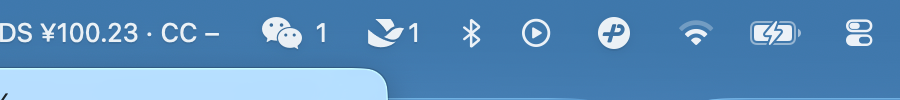
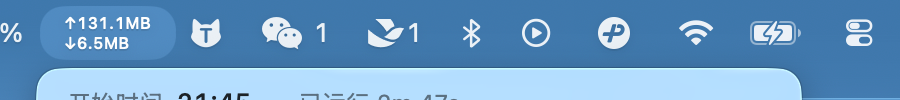
feat: 菜单标题行去除「剩」字，状态条仅展示进度值（移除重置倒计时段）
- 菜单标题：🟣 Codex — 35%（原「— 剩 35%」）
- 状态条：CX 35% · Z 35% · OA /bin/zsh.04（倒计时只保留在下拉菜单明细行）
- reset_remaining 转为测试锚点（allow(dead_code) 惯例）

diff --git a/src-tauri/src/tray.rs b/src-tauri/src/tray.rs
@@ -151,7 +151,9 @@ fn tray_value(p: &ProviderStatus) -> String {
     }
 }
 
-/// 解析 ISO/RFC3339 重置时刻为距 now 的剩余时长；解析失败或已到期返回 None
+/// 解析 ISO/RFC3339 重置时刻为距 now 的剩余时长；解析失败或已到期返回 None。
+/// （当前仅 quota_countdown_compact 内联同构逻辑，保留为语义文档与测试锚点）
+#[cfg_attr(not(test), allow(dead_code))]
 pub fn reset_remaining(iso: &str, now: DateTime<Utc>) -> Option<chrono::Duration> {
     let dt = iso.parse::<DateTime<Utc>>().ok()?;
     let d = dt.signed_duration_since(now);
@@ -268,13 +270,12 @@ fn p_reset_ts(p: &ProviderStatus) -> i64 {
 }
 
 /// 构建状态栏常显文字（V2 全列表模式）：所有可见供应商逐项短码+主值，
-/// 紧张优先排序；告警项加 ⚠ 前缀与紧凑倒计时，第一名（主力）恒带倒计时。
-/// 其余项仅 `短码 主值`。同短码多账号从第二个起追加序号（DS、DS2）。
+/// 紧张优先排序；告警项加 ⚠ 前缀。仅展示进度值，不含重置倒计时
+/// （重置时刻只进下拉菜单明细行）。同短码多账号从第二个起追加序号（DS、DS2）。
 pub fn build_tray_title(config: &AppConfig, summary: &UsageSummary) -> Option<String> {
     if !config.tray_text_enabled {
         return None;
     }
-    let now = Utc::now();
     let mut visible: Vec<&ProviderStatus> = summary
         .providers
         .iter()
@@ -303,8 +304,7 @@ pub fn build_tray_title(config: &AppConfig, summary: &UsageSummary) -> Option<St
         std::collections::HashMap::new();
     let parts: Vec<String> = visible
         .iter()
-        .enumerate()
-        .map(|(i, p)| {
+        .map(|p| {
             let base = tray_short_code(&p.name)
                 .map(str::to_string)
                 .unwrap_or_else(|| fallback_short_name(&p.alias));
@@ -319,23 +319,12 @@ pub fn build_tray_title(config: &AppConfig, summary: &UsageSummary) -> Option<St
                 Some(b) if b.is_percent() => format!("{:.0}%", aggregate_value(p)),
                 _ => tray_value(p),
             };
-            let alert = quota_warning_level(p) > 0;
-            // 主力（第一名）与告警项带倒计时，其余项保持紧凑
-            let cd = if i == 0 || alert {
-                p.quota_infos
-                    .as_ref()
-                    .and_then(|qs| primary_quota(qs))
-                    .and_then(|q| q.reset_at.as_deref())
-                    .and_then(|iso| reset_remaining(iso, now))
-                    .map(countdown_compact)
+            let prefix = if quota_warning_level(p) > 0 {
+                "⚠ "
             } else {
-                None
+                ""
             };
-            let prefix = if alert { "⚠ " } else { "" };
-            match cd {
-                Some(c) => format!("{prefix}{code} {value}·{c}"),
-                None => format!("{prefix}{code} {value}"),
-            }
+            format!("{prefix}{code} {value}")
         })
         .collect();
     Some(parts.join(" · "))
@@ -802,9 +791,9 @@ mod tray_title_tests {
     }
 
     #[test]
-    fn v2_alert_item_carries_compact_countdown() {
-        // Codex 5h 剩 3%（<5 触发黄档）→ ⚠ 前缀 + 紧凑倒计时（值与倒计时以 · 相连）。
-        // reset_at 取远期（2999 年），倒计时段必为「Xd」且稳定存在，不受系统时钟影响
+    fn v2_alert_item_shows_prefix_without_countdown() {
+        // Codex 5h 剩 3%（<5 触发黄档）→ ⚠ 前缀；状态条只展示进度值，
+        // 重置倒计时只进下拉菜单明细行，不进状态条
         let qs = vec![quota("5小时", 3.0, Some("2999-01-01T00:00:00Z"))];
         let mut p = status_q("Codex", Some(balance(3.0, "%")), Some(qs));
         p.name = "Codex".into();
@@ -813,7 +802,7 @@ mod tray_title_tests {
             ..Default::default()
         };
         let title = build_tray_title(&config(vec![]), &s).unwrap();
-        assert!(title.starts_with("⚠ CX 3%·"), "got: {title}");
+        assert_eq!(title, "⚠ CX 3%");
     }
 
     #[test]
@@ -873,9 +862,9 @@ mod tray_title_tests {
     }
 
     #[test]
-    fn v2_only_first_or_alert_carries_countdown() {
-        // 两个 percent 型同剩 35%、均非告警：并列取重置更近者居首（CX），
-        // 仅第一名带倒计时，第二名（Z）不带 —— 真机观察到第二名也带，本用例锁定规则
+    fn v2_no_item_carries_countdown_in_status_bar() {
+        // 状态条只展示进度：任何项（含第一名与并列者）都不带重置倒计时；
+        // 排序 tie-break（重置更近者居首）仍然生效
         let mut cx = status_q(
             "CX",
             Some(balance(35.0, "%")),
@@ -893,16 +882,11 @@ mod tray_title_tests {
             ..Default::default()
         };
         let title = build_tray_title(&config(vec![]), &s).unwrap();
-        // CX 重置更近（1 月）→ 居首带倒计时；Z（6 月）仅短码+主值
-        assert!(title.contains("CX 35%·"), "CX 应带倒计时, got: {title}");
-        assert!(
-            title.contains("Z 35%") && !title.contains("Z 35%·"),
-            "Z 不应带倒计时, got: {title}"
-        );
+        assert_eq!(title, "CX 35% · Z 35%");
     }
 
     #[test]
-    fn v3_api_only_falls_back_to_balance() {
+    fn v2_api_only_falls_back_to_balance() {
         let mut ds = status("工作号", Some(balance(88.0, "CNY")), None);
         ds.name = "DeepSeek".into();
         let s = UsageSummary {

diff --git a/src-tauri/src/scheduler.rs b/src-tauri/src/scheduler.rs
@@ -152,7 +152,7 @@ fn provider_menu_block(p: &ProviderStatus, now: DateTime<Utc>) -> ProviderMenuBl
         if let Some(primary) = crate::tray::primary_quota(quotas) {
             return ProviderMenuBlock {
                 title: format!(
-                    "{} {} — 剩 {:.0}%{}",
+                    "{} {} — {:.0}%{}",
                     badge, p.alias, primary.remaining_percent, suffix
                 ),
                 details: quotas.iter().map(|q| quota_line(q, now)).collect(),
@@ -163,7 +163,7 @@ fn provider_menu_block(p: &ProviderStatus, now: DateTime<Utc>) -> ProviderMenuBl
     match &p.balance {
         Some(b) if b.is_percent() => ProviderMenuBlock {
             title: format!(
-                "{} {} — 剩 {:.0}%{}",
+                "{} {} — {:.0}%{}",
                 badge, p.alias, b.available_balance, suffix
             ),
             details: vec![],
@@ -1020,7 +1020,7 @@ mod tests {
         let p = status_full("Claude Code", "Max工作", Some(b), Some(quotas), None);
         let block = provider_menu_block(&p, fixed_now());
         // 标题 = 身份徽章 + 别名 + 主窗口剩余；明细 = 全部窗口平铺（保持接口顺序）
-        assert_eq!(block.title, "🟠 Max工作 — 剩 62%");
+        assert_eq!(block.title, "🟠 Max工作 — 62%");
         assert_eq!(block.details.len(), 3);
         assert_eq!(block.details[0], "  [■■■■□□□□□□] 5H · 62% · 1H24M");
         assert!(block.details[1].starts_with("  [■"));
@@ -1040,7 +1040,7 @@ mod tests {
         };
         let p = status_full("Zhipu", "智谱", Some(b), None, None);
         let block = provider_menu_block(&p, fixed_now());
-        assert_eq!(block.title, "🔵 智谱 — 剩 47%");
+        assert_eq!(block.title, "🔵 智谱 — 47%");
         assert!(block.details.is_empty());
     }
 
@@ -1073,7 +1073,7 @@ mod tests {
         ];
         let p = status_full("Zhipu", "智谱", Some(b), Some(quotas), None);
         let block = provider_menu_block(&p, fixed_now());
-        assert_eq!(block.title, "🔵 智谱 — 剩 35%");
+        assert_eq!(block.title, "🔵 智谱 — 35%");
         assert_eq!(block.details.len(), 2);
         assert_eq!(block.details[0], "  [■■■■■■■□□□] 5H · 35%");
         assert!(block.details[1].starts_with("  [■■■■■■■□□□] W"));
@@ -1132,7 +1132,7 @@ mod tests {
         let p = status_full("Claude Code", "Max工作", Some(b), Some(quotas), None);
         assert_eq!(
             provider_menu_block(&p, fixed_now()).title,
-            "🟠 Max工作 — 剩 3% ⚠"
+            "🟠 Max工作 — 3% ⚠"
         );
     }
 
